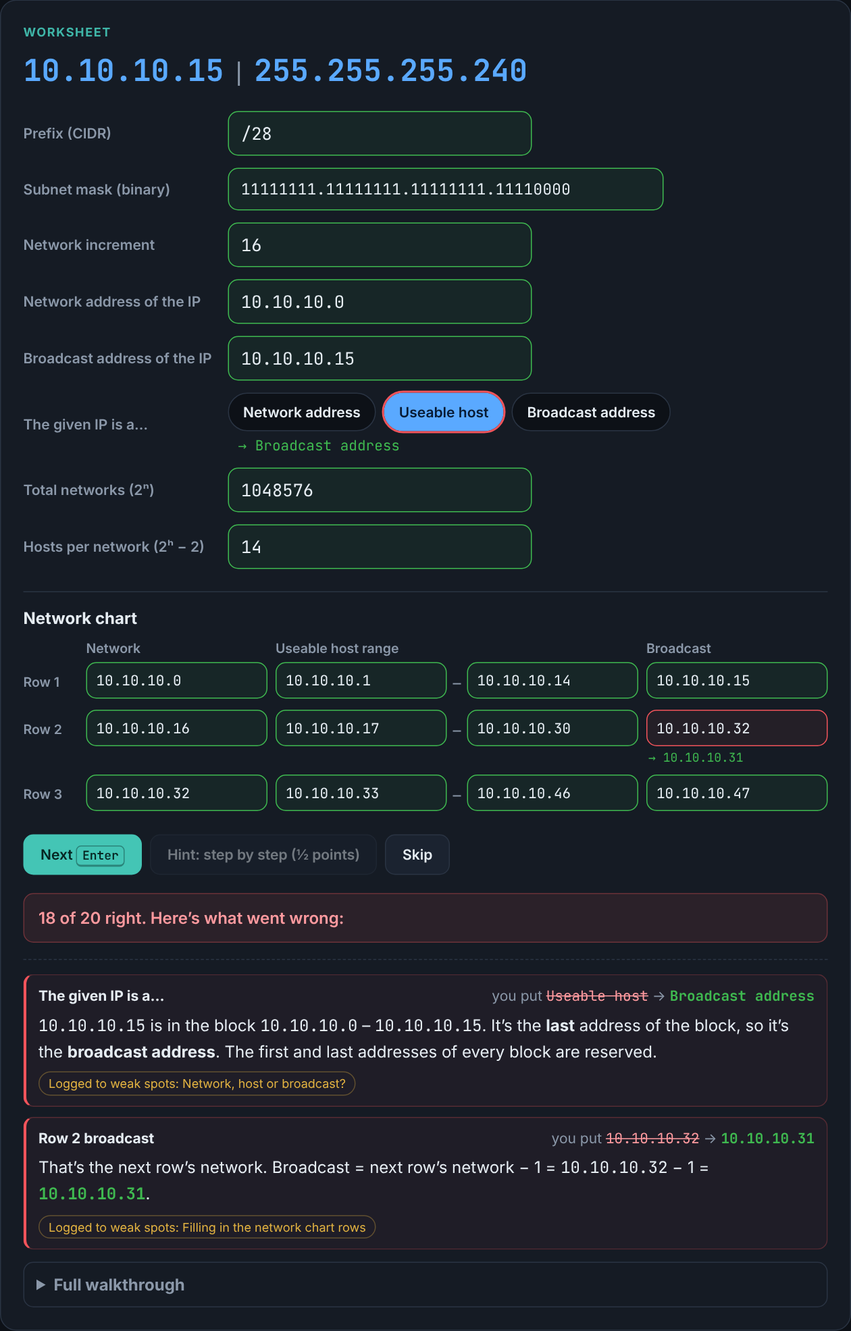
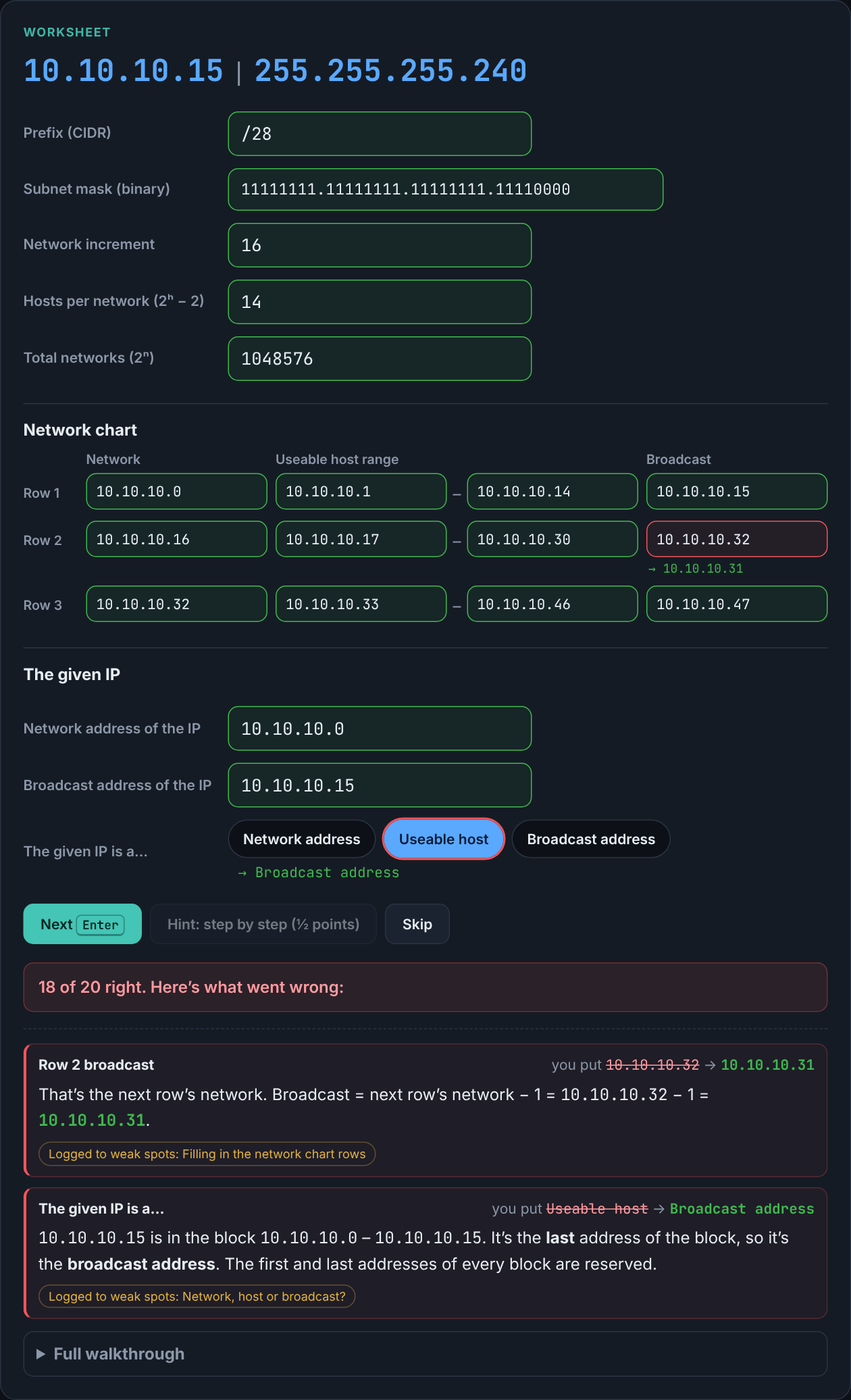
Order chart and worksheet questions the way you work them out
- Subnet Chart: network, broadcast, gateway, last usable, usable hosts
- Worksheet: mask, binary, increment, hosts and total networks first (all
  from the mask), then the network chart, then the given IP's network,
  broadcast and role (read off the chart)
- Chart rows tab network → broadcast → useable range; layout unchanged
- Hint steps, solved walkthrough and Guide follow the same order
- Worksheet test now looks boxes up by name and checks the order

Changed region(s): [[0.031, 0.0928, 0.8976, 0.7118], [0.031, 0.7428, 0.9595, 0.9904], [0.031, 0.0, 0.619, 0.0619]]

diff --git a/app.js b/app.js
@@ -331,7 +331,8 @@ const GEN={
     if(sub==='role'||(!sub&&Math.random()<.25))return genRole();
     const p=randPrefix(),ip=randIP(),m=maskOf(p),net=(ip&m)>>>0,size=2**(32-p),bc=(net+size-1)>>>0;
     return {mode:'detective',walk:()=>walkSteps(ip,p),title:'Subnet chart',prompt:`Fill in the network chart for <b class="big">${ipStr(ip)}/${p}</b>`,
-      fields:[{type:'ip',label:'Subnet (network)',answer:net},{type:'ip',label:'Default gateway (1st usable)',answer:(net+1)>>>0},{type:'ip',label:'Last usable',answer:(bc-1)>>>0},{type:'ip',label:'Broadcast',answer:bc},{type:'num',label:'Usable hosts',answer:size-2}],diag:x=>diagChart(ip,p,x),
+      fields:[{type:'ip',label:'Subnet (network)',answer:net},{type:'ip',label:'Broadcast',answer:bc},{type:'ip',label:'Default gateway (1st usable)',answer:(net+1)>>>0},{type:'ip',label:'Last usable',answer:(bc-1)>>>0},{type:'num',label:'Usable hosts',answer:size-2}],
+      diag:x=>{const d=diagChart(ip,p,[x[0],x[2],x[3],x[1],x[4]]);return [d[0],d[3],d[1],d[2],d[4]];},
       hint:`Mask is ${ipStr(m)}. Increment = 256 − the octet that isn’t 255 or 0. List the subnets (0, inc, 2×inc…) and round the IP down to one of them.`,explain:explainSubnet(ip,p)};
   },
   formulas(sub){
@@ -441,9 +442,8 @@ function walkSheet(ip,p,asPrefix,rows){
     st.push({q:`Count the 1s: 24 from the three 255s, plus the 1s in your binary. Prefix = ?`,kind:'prefix',ans:p,bad:()=>'Add 24 to the number of 1s in your binary.'});
   }
   st.push({q:`Write the whole mask in binary (32 bits): 255 in binary for each of the first three octets, then your 4th octet.`,kind:'bin32',ans:bin32(m),bad:(u,raw)=>hBin32(p,raw)});
-  st.push(...walkBlock(ip,p).slice(2));
-  st.push({q:`Compare the IP (ends in .${ipo}) with the network and broadcast you just found. Is it the <b>network</b> (first address), the <b>broadcast</b> (last), or a usable <b>host</b> (in between)?`,kind:'role',ans:role,
-    bad:()=>'First address of the block = network, last = broadcast, anything in between = usable host.'});
+  const blk=walkBlock(ip,p); // [interesting, mask value, increment, round down, network, next subnet, broadcast]
+  st.push(blk[2]);
   st.push({q:`Host bits h = the number of 0s in the mask (32 − ${p}) = ?`,kind:'num',ans:h,bad:()=>`Count the 0s in your binary mask, or subtract ${p} from 32.`});
   st.push({q:`Hosts per network = 2<sup>h</sup> − 2 = ?`,kind:'num',ans:2**h-2,bad:u=>hHosts(h,u)});
   st.push({q:`For total networks, find the IP’s class from its first octet (<b>${oct(ip,0)}</b>). Class A is 1–126, B is 128–191, C is 192–223. Which class?`,kind:'cls',ans:c.c,bad:()=>`Find ${oct(ip,0)} in those three ranges.`});
@@ -455,16 +455,20 @@ function walkSheet(ip,p,asPrefix,rows){
       bad:()=>r===0?'Copy the first three octets of the IP and end it in .0.':'Take the row above’s last octet and add the increment.'});
     st.push({q:`Row ${r+1} broadcast = the next row’s network − 1. Broadcast address?`,kind:'ip',ans:(rn+inc-1)>>>0,bad:u=>u===nx?'That’s the next row’s network. Subtract 1.':'One less than the next row’s network.'});
   });
+  st.push({q:`Now the given IP. Its last octet is <b>${ipo}</b>. Which row’s network does it round <b>down</b> to? Type that row’s last octet.`,kind:'num',ans:ipo-ipo%inc,
+    bad:u=>u==null?'Enter a number.':u%inc?'Use one of the row networks from your chart (a multiple of the increment).':u>ipo?'Too high: always round down, never up.':'That row ends before the IP. Look one row further down.'});
+  st.push({q:`Write the <b>network address of the IP</b>: it’s that row’s network.`,kind:'ip',ans:net,bad:(u,raw)=>hNet(ip,p,3,u,raw)});
+  st.push({q:`Write the <b>broadcast address of the IP</b>: it’s that same row’s broadcast.`,kind:'ip',ans:bc,bad:(u,raw)=>hBc(ip,3,(net+inc)>>>0,u)});
+  st.push({q:`Compare the IP (ends in .${ipo}) with the network and broadcast you just found. Is it the <b>network</b> (first address), the <b>broadcast</b> (last), or a usable <b>host</b> (in between)?`,kind:'role',ans:role,
+    bad:()=>'First address of the block = network, last = broadcast, anything in between = usable host.'});
   return st.concat({done:true,q:`Each row’s useable host range runs from network + 1 to broadcast − 1. Everything else goes straight from your steps into the worksheet.`});
 }
 function explainSheet(ip,p,rows){
   const m=maskOf(p),mv=oct(m,3),inc=256-mv,net=(ip&m)>>>0,bc=(net+inc-1)>>>0,c=classOf(ip),n=p-c.d,h=32-p,ipo=oct(ip,3);
   const role=ipo===oct(net,3)?'network':ipo===oct(bc,3)?'broadcast':'host';
-  return `<table class="sol"><tr><td>Subnet mask</td><td class="mono">${ipStr(m)} = /${p}</td></tr><tr><td>Binary</td><td class="mono">${bin32(m)}</td></tr>
-  <tr><td>Increment</td><td class="mono">256 − ${mv} = ${inc}</td></tr><tr><td>Network</td><td class="mono">${ipStr(net)}</td></tr><tr><td>Broadcast</td><td class="mono">${ipStr(bc)}</td></tr>
-  <tr><td>The IP is a</td><td>${ROLES[role].toLowerCase()}</td></tr><tr><td>Total networks</td><td>Class ${c.c} default /${c.d} → n = ${p} − ${c.d} = ${n} → 2<sup>${n}</sup> = <b>${big(2**n)}</b>${c.d!==24?` <span class="dim">(2<sup>${p-24}</sup> = ${2**(p-24)} if your class counts from /24)</span>`:''}</td></tr>
-  <tr><td>Hosts per network</td><td>h = ${h} → 2<sup>${h}</sup> − 2 = <b>${2**h-2}</b></td></tr></table>
-  <table class="sol chartsol"><tr><th>Network</th><th>Useable host range</th><th>Broadcast</th></tr>${rows.map(rn=>`<tr class="${rn===net?'hl':''}"><td class="mono">${ipStr(rn)}</td><td class="mono">${ipStr(rn+1)} – ${ipStr(rn+inc-2)}</td><td class="mono">${ipStr(rn+inc-1)}</td></tr>`).join('')}</table>`;
+  return `<table class="sol"><tr><td>Subnet mask</td><td class="mono">${ipStr(m)} = /${p}</td></tr><tr><td>Binary</td><td class="mono">${bin32(m)}</td></tr><tr><td>Increment</td><td class="mono">256 − ${mv} = ${inc}</td></tr><tr><td>Hosts per network</td><td>h = ${h} → 2<sup>${h}</sup> − 2 = <b>${2**h-2}</b></td></tr><tr><td>Total networks</td><td>Class ${c.c} default /${c.d} → n = ${p} − ${c.d} = ${n} → 2<sup>${n}</sup> = <b>${big(2**n)}</b>${c.d!==24?` <span class="dim">(2<sup>${p-24}</sup> = ${2**(p-24)} if your class counts from /24)</span>`:''}</td></tr></table>
+  <table class="sol chartsol"><tr><th>Network</th><th>Useable host range</th><th>Broadcast</th></tr>${rows.map(rn=>`<tr class="${rn===net?'hl':''}"><td class="mono">${ipStr(rn)}</td><td class="mono">${ipStr(rn+1)} – ${ipStr(rn+inc-2)}</td><td class="mono">${ipStr(rn+inc-1)}</td></tr>`).join('')}</table>
+  <table class="sol"><tr><td>Network of the IP</td><td class="mono">${ipStr(net)}</td></tr><tr><td>Broadcast of the IP</td><td class="mono">${ipStr(bc)}</td></tr><tr><td>The IP is a</td><td>${ROLES[role].toLowerCase()}</td></tr></table>`;
 }
 function genSheet(fixed){
   const p=fixed?fixed.p:R(25,30),m=maskOf(p),inc=2**(32-p),blocks=256/inc;
@@ -476,25 +480,33 @@ function genSheet(fixed){
   const role=ip===net?'network':ip===bc?'broadcast':'host';
   const asPrefix=fixed?fixed.asPrefix:Math.random()<.5,nRows=Math.min(blocks,Math.max(3,Math.floor(oct(ip,3)/inc)+2));
   const rows=[...Array(nRows)].map((_,r)=>(base+r*inc)>>>0);
-  const fields=[asPrefix?{type:'ip',label:'Subnet mask (dotted decimal)',answer:m}:{type:'prefix',label:'Prefix (CIDR)',answer:p},
-    {type:'bin32',label:'Subnet mask (binary)',answer:bin32(m)},
-    {type:'num',label:'Network increment',answer:inc},
-    {type:'ip',label:'Network address of the IP',answer:net},
-    {type:'ip',label:'Broadcast address of the IP',answer:bc},
-    {type:'choice',label:'The given IP is a…',answer:role},
-    {type:'numalt',label:'Total networks (2ⁿ)',answer:2**(p-c.d),alt:c.d===24?[]:[2**(p-24)]},
-    {type:'num',label:'Hosts per network (2ʰ − 2)',answer:inc-2}];
-  rows.forEach((rn,r)=>['network','first usable','last usable','broadcast'].forEach((nm,col)=>
-    fields.push({type:'ip',cell:{r,c:col},label:`Row ${r+1} ${nm}`,answer:[rn,rn+1,rn+inc-2,rn+inc-1][col]>>>0})));
+  const fields=[asPrefix?{key:'mask',sec:'pre',type:'ip',label:'Subnet mask (dotted decimal)',answer:m}:{key:'mask',sec:'pre',type:'prefix',label:'Prefix (CIDR)',answer:p},
+    {key:'bin',sec:'pre',type:'bin32',label:'Subnet mask (binary)',answer:bin32(m)},
+    {key:'inc',sec:'pre',type:'num',label:'Network increment',answer:inc},
+    {key:'hosts',sec:'pre',type:'num',label:'Hosts per network (2ʰ − 2)',answer:inc-2},
+    {key:'nets',sec:'pre',type:'numalt',label:'Total networks (2ⁿ)',answer:2**(p-c.d),alt:c.d===24?[]:[2**(p-24)]}];
+  // chart cells in the order you can work them out: network, broadcast (next network − 1), then the usable range
+  rows.forEach((rn,r)=>[[0,'network'],[3,'broadcast'],[1,'first usable'],[2,'last usable']].forEach(([col,nm])=>
+    fields.push({key:'cell',type:'ip',cell:{r,c:col},label:`Row ${r+1} ${nm}`,answer:[rn,rn+1,rn+inc-2,rn+inc-1][col]>>>0})));
+  fields.push({key:'net',sec:'post',type:'ip',label:'Network address of the IP',answer:net},
+    {key:'bc',sec:'post',type:'ip',label:'Broadcast address of the IP',answer:bc},
+    {key:'role',sec:'post',type:'choice',label:'The given IP is a…',answer:role});
   return {mode:'worksheet',layout:'sheet',title:'Worksheet',
     prompt:asPrefix?`<b class="big">${ipStr(ip)}/${p}</b>`:`<b class="big">${ipStr(ip)}</b> <span class="sep">|</span> <b class="big">${ipStr(m)}</b>`,
     fields,
-    diag:x=>{const out=[asPrefix?diagMask(p,x[0]):diagPrefix(p,x[0]),diagBin32(p,x[1]),diagIncrement(p,x[2])];
-      const u3=parseIP(x[3]);out.push(u3===net?null:u3==null?badEntry(x[3],'ip'):diagNet(ip,p,u3,false));
-      out.push(parseIP(x[4])===bc?null:diagChart(ip,p,[x[3],'','',x[4],'0'])[3]);
-      out.push(diagRole(ip,p,role,x[5]));out.push(diagClassNets(ip,p,x[6],true));out.push(diagHosts(32-p,x[7]));
-      rows.forEach((rn,r)=>{const o=8+r*4,un=parseIP(x[o]),ub=parseIP(x[o+3]);for(let col=0;col<4;col++)out.push(diagCell(rn,inc,col,x[o+col],un,ub));});
-      return out;},
+    diag:x=>{const at=k=>x[fields.findIndex(f=>f.key===k)];
+      const cellAt=(r,c)=>x[fields.findIndex(f=>f.cell&&f.cell.r===r&&f.cell.c===c)];
+      return fields.map((f,i)=>{const v=x[i];switch(f.key){
+        case 'mask':return asPrefix?diagMask(p,v):diagPrefix(p,v);
+        case 'bin':return diagBin32(p,v);
+        case 'inc':return diagIncrement(p,v);
+        case 'hosts':return diagHosts(32-p,v);
+        case 'nets':return diagClassNets(ip,p,v,true);
+        case 'net':{const u=parseIP(v);return u===net?null:u==null?badEntry(v,'ip'):diagNet(ip,p,u,false);}
+        case 'bc':return parseIP(v)===bc?null:diagChart(ip,p,[at('net'),'','',v,'0'])[3];
+        case 'role':return diagRole(ip,p,role,v);
+        case 'cell':{const {r,c:col}=f.cell;return diagCell(rows[r],inc,col,v,parseIP(cellAt(r,0)),parseIP(cellAt(r,3)));}
+      }});},
     hint:'Mask → binary → increment (256 − the last mask octet). Count up by the increment from 0 to build the chart, find the IP’s row, then hosts = 2ʰ − 2 and networks = 2ⁿ from the class default.',
     walk:()=>walkSheet(ip,p,asPrefix,rows),explain:explainSheet(ip,p,rows)};
 }
@@ -504,10 +516,10 @@ function cellHTML(f,i){
   return `<div class="field cell" data-i="${i}"><input id="f${i}" aria-label="${f.label}" autocomplete="off" autocorrect="off" autocapitalize="off" spellcheck="false" inputmode="decimal" enterkeyhint="next" placeholder="${['network','first','last','broadcast'][f.cell.c]}"><span class="fix"></span></div>`;
 }
 function sheetHTML(q){
-  const top=q.fields.map((f,i)=>f.cell?'':fieldHTML(f,i)).join('');
+  const sec=k=>q.fields.map((f,i)=>f.sec===k?fieldHTML(f,i):'').join('');
   const byRow={};q.fields.forEach((f,i)=>{if(f.cell)(byRow[f.cell.r]=byRow[f.cell.r]||[])[f.cell.c]=i;});
-  const rows=Object.keys(byRow).map(r=>{const ix=byRow[r];return `<div class="crow"><span class="rlab">Row ${Number(r)+1}</span><div class="cc" data-l="Network">${cellHTML(q.fields[ix[0]],ix[0])}</div><div class="cc rng" data-l="Useable host range">${cellHTML(q.fields[ix[1]],ix[1])}<span class="dash">–</span>${cellHTML(q.fields[ix[2]],ix[2])}</div><div class="cc" data-l="Broadcast">${cellHTML(q.fields[ix[3]],ix[3])}</div></div>`;}).join('');
-  return `<div class="ws-top">${top}</div><div class="ws-chart"><div class="ch-title">Network chart</div><div class="crow chead"><span class="rlab"></span><span>Network</span><span>Useable host range</span><span>Broadcast</span></div>${rows}</div>`;
+  const rows=Object.keys(byRow).map(r=>{const ix=byRow[r];return `<div class="crow"><span class="rlab">Row ${Number(r)+1}</span><div class="cc cnet" data-l="Network">${cellHTML(q.fields[ix[0]],ix[0])}</div><div class="cc cbc" data-l="Broadcast">${cellHTML(q.fields[ix[3]],ix[3])}</div><div class="cc rng" data-l="Useable host range">${cellHTML(q.fields[ix[1]],ix[1])}<span class="dash">–</span>${cellHTML(q.fields[ix[2]],ix[2])}</div></div>`;}).join('');
+  return `<div class="ws-top">${sec('pre')}</div><div class="ws-chart"><div class="ch-title">Network chart</div><div class="crow chead"><span class="rlab"></span><span>Network</span><span>Useable host range</span><span>Broadcast</span></div>${rows}</div><div class="ws-top ws-post"><div class="ch-title">The given IP</div>${sec('post')}</div>`;
 }
 
 /* ---------------- drills for the worksheet's extra skills ---------------- */

diff --git a/index.html b/index.html
@@ -149,6 +149,8 @@ h1 span{color:var(--accent)}
 .crow{display:grid;grid-template-columns:54px minmax(0,1fr) minmax(0,2fr) minmax(0,1fr);gap:8px;align-items:start;margin-bottom:8px}
 .crow.chead{color:var(--muted);font-size:13px;font-weight:600;margin-bottom:4px}
 .rlab{color:var(--muted);font-size:13px;font-weight:600;padding-top:10px}
+.crow>.rlab{grid-column:1;grid-row:1}.crow>.cnet{grid-column:2;grid-row:1}.crow>.rng{grid-column:3;grid-row:1}.crow>.cbc{grid-column:4;grid-row:1}
+.ws-post{margin-top:22px;border-top:1px solid var(--line);padding-top:14px}
 .cc.rng{display:flex;align-items:flex-start;gap:6px}.cc.rng .field{flex:1;min-width:0}.dash{color:var(--muted);padding-top:9px}
 .field.cell{display:block}.field.cell input{max-width:none;font-size:14px;padding:8px 9px}
 .field.cell .fix{display:block;margin:3px 0 0 2px;font-size:12px}
@@ -158,9 +160,10 @@ table.sol td:first-child{color:var(--muted);white-space:nowrap}table.sol th{colo
 @media (max-width:700px){
   .crow.chead{display:none}
   .crow{grid-template-columns:1fr 1fr;border:1px solid var(--line);border-radius:10px;padding:8px 10px 10px;gap:6px 10px}
-  .rlab{grid-column:1/-1;padding-top:0}
+  .crow>.rlab,.crow>.cnet,.crow>.cbc,.crow>.rng{grid-row:auto;grid-column:auto}
+  .rlab{grid-column:1/-1!important;padding-top:0}
   .cc::before{content:attr(data-l);display:block;color:var(--muted);font-size:12px;font-weight:600;margin-bottom:3px}
-  .cc.rng{grid-column:1/-1;flex-wrap:wrap;order:3}.cc.rng::before{flex-basis:100%}
+  .cc.rng{grid-column:1/-1!important;flex-wrap:wrap}.cc.rng::before{flex-basis:100%}
   .field.wide input{font-size:13px}
 }
 .coach{display:flex;flex-direction:column;gap:10px;margin-bottom:12px}
@@ -443,13 +446,13 @@ tr.me td{background:#3fb6a81a;color:#9ef0e4}
         <li><b>Mask both ways.</b> /p means p ones. The first three octets are 255; the 4th octet gets p − 24 ones from the left. Add their place values (128, 64, 32 …) to get the octet. Going the other way, count the 1s.</li>
         <li><b>Binary mask.</b> Write it as four groups of 8: <span class="mono">11111111.11111111.11111111.11100000</span> for /27.</li>
         <li><b>Increment</b> = 256 − the 4th mask octet.</li>
+        <li><b>Hosts per network</b> = 2<sup>h</sup> − 2, where h = 32 − p (the 0s in the mask).</li>
+        <li><b>Total networks</b> = 2<sup>n</sup>, where n = p − the class default: Class A (first octet 1–126) /8, B (128–191) /16, C (192–223) /24. For 10.x.x.x/27: n = 27 − 8 = 19 → 524,288. Some classes count from /24 instead (n = p − 24); the game accepts either for the worksheet.</li>
         <li><b>Network chart.</b> Start at .0 and count up by the increment. Each row’s broadcast is the next row’s network − 1. The useable range is network + 1 to broadcast − 1.</li>
         <li><b>Network and broadcast of the IP.</b> Find the row the IP’s last octet falls in (round down to a multiple of the increment).</li>
         <li><b>Network, host or broadcast?</b> First address of its row = network. Last address = broadcast. Anything between = useable host.</li>
-        <li><b>Hosts per network</b> = 2<sup>h</sup> − 2, where h = 32 − p (the 0s in the mask).</li>
-        <li><b>Total networks</b> = 2<sup>n</sup>, where n = p − the class default: Class A (first octet 1–126) /8, B (128–191) /16, C (192–223) /24. For 10.x.x.x/27: n = 27 − 8 = 19 → 524,288. Some classes count from /24 instead (n = p − 24); the game accepts either for the worksheet.</li>
       </ol>
-      <p class="dim">Exam habit: write the binary mask and the increment first, then build the chart. Every other answer comes straight off the chart.</p>
+      <p class="dim">Work it top to bottom: everything above the chart comes from the mask, and everything about the given IP comes straight off the chart.</p>
     </details>
     <details id="g-chart">
       <summary>Subnet Chart — step by step</summary>

diff --git a/tests/test_worksheet.py b/tests/test_worksheet.py
@@ -22,12 +22,20 @@ GUIDE=[
 ]
 def load(pg,g):
     pg.evaluate(f"window.SS.next(window.SS.genSheet({{ip:'{g['ip']}',p:{g['p']},asPrefix:{'true' if g['asPrefix'] else 'false'}}}))")
+def answers(g):
+    """correct value for each box, keyed by its label"""
+    a={'Prefix (CIDR)':'/'+str(g['p']),'Subnet mask (dotted decimal)':g['mask'],'Subnet mask (binary)':g['bin'],'Network increment':str(g['inc']),
+       'Hosts per network (2ʰ − 2)':str(g['hosts']),'Total networks (2ⁿ)':str(g['nets']),'Network address of the IP':g['net'],
+       'Broadcast address of the IP':g['bc'],'The given IP is a…':g['role']}
+    for r,(n,f,l,b) in enumerate(g['rows'],1): a.update({f'Row {r} network':n,f'Row {r} first usable':f,f'Row {r} last usable':l,f'Row {r} broadcast':b})
+    return a
+def labels(pg): return pg.evaluate("window.SS.state.q.fields.map(f=>f.label)")
+def idx(pg,label): return labels(pg).index(label)
 def fill(pg,g,overrides={}):
-    vals=['/'+str(g['p']) if not g['asPrefix'] else g['mask'],g['bin'],str(g['inc']),g['net'],g['bc'],None,str(g['nets']),str(g['hosts'])]+[c for r in g['rows'] for c in r]
-    for i,v in enumerate(vals):
-        v=overrides.get(i,v)
-        if i==5: pg.click(f'.field[data-i="5"] .choice[data-v="{overrides.get(5,g["role"])}"]')
-        else: pg.fill(f'#f{i}',v)
+    a=answers(g); a.update(overrides)
+    for i,lab in enumerate(labels(pg)):
+        if lab=='The given IP is a…': pg.click(f'.field[data-i="{i}"] .choice[data-v="{a[lab]}"]')
+        else: pg.fill(f'#f{i}',a[lab])
 with sync_playwright() as pw:
     b=pw.chromium.launch(); pg=b.new_page(viewport={'width':1300,'height':1100}); errs=[]; pg.on('pageerror',lambda e:errs.append(str(e)))
     pg.goto(URL); pg.evaluate("localStorage.clear()"); pg.reload(); pg.wait_for_timeout(300)
@@ -35,29 +43,37 @@ with sync_playwright() as pw:
     print('The five problems from the solutions guide')
     for n,g in enumerate(GUIDE,1):
         load(pg,g)
-        q=pg.evaluate("window.SS.state.q.fields.map(f=>[f.label,f.type==='ip'?window.SS.ipStr(f.answer):f.answer,f.alt||null])")
-        want=['/'+str(g['p']) if not g['asPrefix'] else g['mask'],g['bin'],g['inc'],g['net'],g['bc'],g['role'],g['nets'],g['hosts']]+[c for r in g['rows'] for c in r]
-        got=[x[1] for x in q]; got[0]=('/'+str(got[0])) if not g['asPrefix'] else got[0]
-        ok(got==want and q[6][2]==[g['alt']],f'Problem {n} ({g["ip"]} {"/"+str(g["p"]) if g["asPrefix"] else g["mask"]}): every worksheet answer and all {len(g["rows"])} chart rows match the guide')
+        q=pg.evaluate("window.SS.state.q.fields.map(f=>[f.label,f.type==='ip'?window.SS.ipStr(f.answer):f.type==='prefix'?'/'+f.answer:String(f.answer),f.alt||null])")
+        want=answers(g); bad=[(l,v,want.get(l)) for l,v,_ in q if want.get(l)!=v]
+        alt=[x[2] for x in q if x[0]=='Total networks (2ⁿ)'][0]
+        if bad: print('   mismatches',bad[:4])
+        ok(not bad and len(q)==8+4*len(g['rows']) and alt==[g['alt']],f'Problem {n} ({g["ip"]} {"/"+str(g["p"]) if g["asPrefix"] else g["mask"]}): every worksheet answer and all {len(g["rows"])} chart rows match the guide')
         fill(pg,g); pg.click('#checkBtn')
         ok('good' in pg.get_attribute('#feedback','class'),f'Problem {n}: entering the guide’s answers scores as correct')
         pg.click('#checkBtn')
-    load(pg,GUIDE[2]); fill(pg,GUIDE[2],{6:'2^20'}); pg.click('#checkBtn'); ok('good' in pg.get_attribute('#feedback','class'),'total networks accepts “2^20”'); pg.click('#checkBtn')
-    load(pg,GUIDE[2]); fill(pg,GUIDE[2],{6:'16'}); pg.click('#checkBtn'); ok('good' in pg.get_attribute('#feedback','class'),'total networks also accepts the /24-baseline answer (16)'); pg.click('#checkBtn')
+    load(pg,GUIDE[2]); fill(pg,GUIDE[2],{'Total networks (2ⁿ)':'2^20'}); pg.click('#checkBtn'); ok('good' in pg.get_attribute('#feedback','class'),'total networks accepts “2^20”'); pg.click('#checkBtn')
+    load(pg,GUIDE[2]); fill(pg,GUIDE[2],{'Total networks (2ⁿ)':'16'}); pg.click('#checkBtn'); ok('good' in pg.get_attribute('#feedback','class'),'total networks also accepts the /24-baseline answer (16)'); pg.click('#checkBtn')
     print('Mistakes get matching explanations')
-    cases=[({5:'host'},5,'last</b> address'),({5:'network'},5,'broadcast address'),({1:'11111111.11111111.11111111.00001111'},1,'all 1s followed by all 0s'),
-           ({1:'00001111.11111111.11111111.11111111'},1,'backwards'),({1:'11111111.11111111.11111111.1111000'},1,'31 bits'),({6:str(2**20-2)},6,'subtract 2'),({6:str(2**28)},6,'whole prefix'),
-           ({7:'16'},7,'subtract 2'),({2:'240'},2,'mask octet itself'),({4:'10.10.10.16'},4,'next'),({3:'10.10.10.16'},3,'rounded up'),
-           ({11:'10.10.10.16'},11,'next row'),({9:'10.10.10.0'},9,'network address itself'),({10:'10.10.10.15'},10,'broadcast can’t be used'),({12:'10.10.10.48'},12,'different row')]
-    for ov,idx,expect in cases:
-        load(pg,GUIDE[2]); fill(pg,GUIDE[2],ov); pg.click('#checkBtn')
-        txt=pg.inner_html(f'.ci[data-i="{idx}"]') if pg.locator(f'.ci[data-i="{idx}"]').count() else ''
+    R,B,N,H,I='The given IP is a…','Subnet mask (binary)','Total networks (2ⁿ)','Hosts per network (2ʰ − 2)','Network increment'
+    cases=[({R:'host'},'last</b> address'),({R:'network'},'broadcast address'),({B:'11111111.11111111.11111111.00001111'},'all 1s followed by all 0s'),
+           ({B:'00001111.11111111.11111111.11111111'},'backwards'),({B:'11111111.11111111.11111111.1111000'},'31 bits'),({N:str(2**20-2)},'subtract 2'),({N:str(2**28)},'whole prefix'),
+           ({H:'16'},'subtract 2'),({I:'240'},'mask octet itself'),({'Broadcast address of the IP':'10.10.10.16'},'next'),({'Network address of the IP':'10.10.10.16'},'rounded up'),
+           ({'Row 1 broadcast':'10.10.10.16'},'next row'),({'Row 1 first usable':'10.10.10.0'},'network address itself'),({'Row 1 last usable':'10.10.10.15'},'broadcast can’t be used'),({'Row 2 network':'10.10.10.48'},'different row')]
+    for ov,expect in cases:
+        load(pg,GUIDE[2]); fill(pg,GUIDE[2],ov); pg.click('#checkBtn'); i=idx(pg,list(ov)[0])
+        txt=pg.inner_html(f'.ci[data-i="{i}"]') if pg.locator(f'.ci[data-i="{i}"]').count() else ''
         others=pg.locator('.ci').count()
-        ok(expect.lower() in txt.lower() and others==1,f'{list(ov.values())[0]} in box {idx} → “{expect}”')
+        ok(expect.lower() in txt.lower() and others==1,f'{list(ov.values())[0]} in “{list(ov)[0]}” → “{expect}”')
         pg.click('#checkBtn')
-    load(pg,GUIDE[3]); fill(pg,GUIDE[3],{16:'10.10.10.66',17:'10.10.10.67'}); pg.click('#checkBtn')
-    ok('Right method for the network you wrote' in pg.inner_text('.ci[data-i="17"]'),'a chart cell that follows from an earlier wrong cell is recognised')
+    load(pg,GUIDE[3]); fill(pg,GUIDE[3],{'Row 3 network':'10.10.10.66','Row 3 first usable':'10.10.10.67'}); pg.click('#checkBtn')
+    ok('Right method for the network you wrote' in pg.inner_text(f'.ci[data-i="{idx(pg,"Row 3 first usable")}"]'),'a chart cell that follows from an earlier wrong cell is recognised')
     pg.click('#checkBtn')
+    load(pg,GUIDE[1]); order=labels(pg)
+    ok(order[:5]==['Subnet mask (dotted decimal)','Subnet mask (binary)','Network increment','Hosts per network (2ʰ − 2)','Total networks (2ⁿ)']
+       and order[5:9]==['Row 1 network','Row 1 broadcast','Row 1 first usable','Row 1 last usable'] and order[-3:]==['Network address of the IP','Broadcast address of the IP','The given IP is a…'],
+       'questions come in the order you work them out: mask answers, then the chart, then the given IP')
+    tab=pg.evaluate("[...document.querySelectorAll('#fields input, #fields .choice')].map(e=>e.closest('.field').dataset.i).filter((v,i,a)=>a.indexOf(v)===i).map(Number)")
+    ok(tab==sorted(tab),'Tab order follows that same order')
     ok(pg.locator('#sheetbox').count()==0 and 'readiness' not in pg.inner_text('body').lower(),'no Exam readiness panel or No-help toggle')
     load(pg,GUIDE[1]); pg.click('#hintBtn'); n=pg.evaluate("window.SS.state.walk.steps.length")
     ok(n>20,f'worksheet Hint walks through every part ({n-1} steps)')

diff --git a/tests/test_answers.py b/tests/test_answers.py
@@ -7,7 +7,7 @@ def expected(qtype, prompt):
     t=prompt
     if qtype.startswith('Subnet chart'):
         ip,p=re.search(r'(\d+\.\d+\.\d+\.\d+)/(\d+)',t).groups(); n=ipaddress.IPv4Network(f'{ip}/{p}',strict=False)
-        return [str(n.network_address),str(n.network_address+1),str(n.broadcast_address-1),str(n.broadcast_address),str(n.num_addresses-2)]
+        return [str(n.network_address),str(n.broadcast_address),str(n.network_address+1),str(n.broadcast_address-1),str(n.num_addresses-2)]
     if qtype=='ANDing':
         ip,m=re.findall(r'\d+\.\d+\.\d+\.\d+',t)[:2]; return [str(ipaddress.IPv4Network(f'{ip}/{m}',strict=False).network_address)]
     if qtype=='Prefix → mask':
@@ -36,11 +36,11 @@ def expected(qtype, prompt):
         role='network' if ipaddress.IPv4Address(ip)==n.network_address else 'broadcast' if ipaddress.IPv4Address(ip)==n.broadcast_address else 'host'
         first=int(ip.split('.')[0]); d=8 if first<128 else 16 if first<192 else 24
         bits='.'.join(format(int(o),'08b') for o in mask(p).split('.'))
-        out=[mask(p) if pm else '/'+str(p), bits, str(inc), str(n.network_address), str(n.broadcast_address), 'CHOICE:'+role, str(2**(p-d)), str(inc-2)]
+        out=[mask(p) if pm else '/'+str(p), bits, str(inc), str(inc-2), str(2**(p-d))]
         row=last//inc; blocks=256//inc; rows=min(blocks,max(3,row+2)); base=ipaddress.IPv4Address(ip.rsplit('.',1)[0]+'.0')
         for r in range(rows):
-            rn=base+r*inc; out+= [str(rn),str(rn+1),str(rn+inc-2),str(rn+inc-1)]
-        return out
+            rn=base+r*inc; out+= [str(rn),str(rn+inc-1),str(rn+1),str(rn+inc-2)]
+        return out+[str(n.network_address),str(n.broadcast_address),'CHOICE:'+role]
     if qtype=='Network, host or broadcast?':
         ips=re.findall(r'\d+\.\d+\.\d+\.\d+',t); pm=re.search(r'/(\d+)',t); ip=ips[0]
         n=ipaddress.IPv4Network(f'{ip}/{pm.group(1) if pm else ips[1]}',strict=False); a=ipaddress.IPv4Address(ip)

diff --git a/tests/test_hints.py b/tests/test_hints.py
@@ -40,7 +40,7 @@ with sync_playwright() as pw:
             if(re.test(tx))hits.push(q.mode+': '+tx+' ⇐ '+nd);}});}
       return hits;}})()""")
     # numbers that are part of the problem or of a rule (place values, class ranges, 256 − mask) are not leaks
-    RULES=['Class A is 1','A is /8','starting at 128','place values (128','256 means it rolls','256 −','256 minus','32 −','Subtract','(it’s only','go up by your increment','multiple of the increment','Each 255 is 8','Try 1 × 8','first 1 place value','Subtract it from 256','The IP’s octet']
+    RULES=['Class A is 1','A is /8','starting at 128','place values (128','256 means it rolls','256 −','256 minus','32 −','Subtract','(it’s only','go up by your increment','multiple of the increment','Each 255 is 8','Try 1 × 8','first 1 place value','Subtract it from 256','The IP’s octet','Its last octet is']
     real=[h for h in hits if not any(r in h for r in RULES)]
     ok(not real,f'no step or nudge states the answer it’s asking for ({len(hits)} matches were problem data or rule text) {real[:3]}')
     # 2. UI: do the walkthrough for real on several questions of each type

diff --git a/tests/test_practice.py b/tests/test_practice.py
@@ -31,7 +31,7 @@ with sync_playwright() as pw:
                 pg.fill('#winp',a); pg.press('#winp','Enter')
             done=pg.locator('.wdone-all').count()==1 and pg.locator('.walk li.wok').count()==9 and pg.is_hidden('#fields')
             pg.click('#wfill')
-            for i,v in enumerate([str(n.network_address),str(n.network_address+1),str(n.broadcast_address-1),str(n.broadcast_address),str(n.num_addresses-2)]): pg.fill(f'#f{i}',v)
+            for i,v in enumerate([str(n.network_address),str(n.broadcast_address),str(n.network_address+1),str(n.broadcast_address-1),str(n.num_addresses-2)]): pg.fill(f'#f{i}',v)
             pg.click('#checkBtn')
             good='good' in pg.get_attribute('#feedback','class') and '+5' in pg.inner_text('#feedback')
             if not (ok_walk and done and good): ok(False,f'walkthrough {ip}/{p}'); break

diff --git a/tests/test_offline.py b/tests/test_offline.py
@@ -22,6 +22,7 @@ with sync_playwright() as pw:
     pg.reload(); pg.wait_for_timeout(500)
     ok(pg.title().startswith('Subnet Sprint'),'page reloads with the network off')
     pg.click('.tab[data-m="detective"]')
+    while pg.evaluate("window.SS.state.q.sub")=='role': pg.click('#skipBtn')
     f=pg.evaluate("window.SS.state.q.fields.map(f=>window.SS.show(f))")
     for i,v in enumerate(f): pg.fill(f'#f{i}',v.replace(',',''))
     pg.click('#checkBtn')

diff --git a/README.md b/README.md
@@ -21,13 +21,13 @@ Works in any modern browser on desktop, tablet or phone. No install, no account,
 | **Binary** | Decimal → binary (tap the 128 / 64 / 32 … bits) and binary → decimal |
 | **Prefix ↔ Mask** | `/26` → `255.255.255.192` and back, and masks written out in 32-bit binary |
 | **ANDing** | IP + mask → network address |
-| **Subnet Chart** | Given `IP/prefix`, fill in the network, default gateway, last usable, broadcast and usable hosts; plus quick “network, host or broadcast?” questions |
+| **Subnet Chart** | Given `IP/prefix`, fill in the network, broadcast, default gateway, last usable and usable hosts (in the order you work them out); plus quick “network, host or broadcast?” questions |
 | **Formulas** | Usable hosts (2ʰ − 2), subnets (2ⁿ), total networks from the class default (A /8, B /16, C /24), network increment, "smallest subnet for X hosts", "bits to borrow for N subnets" |
 | **Mixed** | A random mix of everything |
 | **Weak spots** | Drills the mistakes you make most (see below) |
 
 ### Worksheet mode
-Worksheet mode matches the class worksheet format: each problem gives an IP with a mask (as `/27` or `255.255.255.224`) and asks for every answer plus the network chart (network, useable host range and broadcast for each row, counting up from .0). It's checked box by box, with feedback on exactly what went wrong in each one, including chart cells that are only wrong because of an earlier mistake.
+Worksheet mode matches the class worksheet format: each problem gives an IP with a mask (as `/27` or `255.255.255.224`) and asks for every answer plus the network chart (network, useable host range and broadcast for each row, counting up from .0). The questions are laid out in the order you'd work them out: everything that comes straight from the mask first, then the chart, then the questions about the given IP that you read off the chart. The Tab key follows the same order, including network → broadcast → useable range within each chart row. It's checked box by box, with feedback on exactly what went wrong in each one, including chart cells that are only wrong because of an earlier mistake.
 
 Total networks is counted from the IP's class default mask (10.x.x.x is Class A, /8). The /24-baseline answer is also accepted for the worksheet, since some classes count it that way.
 
